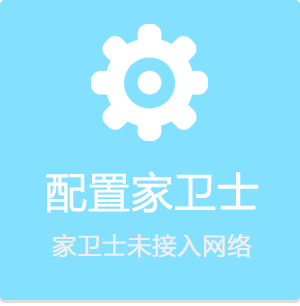
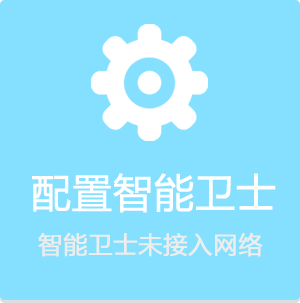
ff

diff --git a/securityguards/disclaimer.html b/securityguards/disclaimer.html
@@ -32,8 +32,8 @@
     </head>
     <body>
         <div class="content">
-             <div class="title">365家卫士 -- 免责声明</div>
-             1. 本软件为“365家卫士”智能净化器配套软件，免费提供给购买 “365家卫士”智能净化器用户使用，用户须接受本公司的技术支持，否则本公司不会对安装用户提供任何技术支持。用户安装本软件，即表明用户信任软件作者，自愿选择安装本软件，并接受本协议所有条款。如果用户不接受本协议条款，请立即卸载本软件。
+             <div class="title">365智能卫士 -- 免责声明</div>
+             1. 本软件为“365智能卫士”智能净化器配套软件，免费提供给购买 “365智能卫士”智能净化器用户使用，用户须接受本公司的技术支持，否则本公司不会对安装用户提供任何技术支持。用户安装本软件，即表明用户信任软件作者，自愿选择安装本软件，并接受本协议所有条款。如果用户不接受本协议条款，请立即卸载本软件。
              <br/><br/>
              2. 本公司所出品软件仅为用户提供简单便捷的生活方式，严禁利用本软件侵犯他人隐私权。如软件使用者不能遵守此规定，请马上停止安装或立即卸载本软件，所产生不良后果由用户自行承担。
              <br/><br/>
@@ -45,7 +45,7 @@
              <br/><br/>
              6. 鉴于用户操控设备软硬件环境的差异性和复杂性，本软件所提供的各项功能并不能保证在任何情况下都能正常执行或达到用户所期望的结果。用户使用本软件所产生的一切后果，本公司不承担任何责任。
              <br/><br/>
-             7. 本公司尊重并保护所有使用“365家卫士”品牌智能净化器用户的个人隐私权,未经用户亲自许可，或根据相关法律、法规的强制性规定，本公司不会主动向第三方披露。本服务条款的解释权与修改权归本公司所有。
+             7. 本公司尊重并保护所有使用“365智能卫士”品牌智能净化器用户的个人隐私权,未经用户亲自许可，或根据相关法律、法规的强制性规定，本公司不会主动向第三方披露。本服务条款的解释权与修改权归本公司所有。
              <br/><br/>
              8. 本应用所使用的语音技术由科大讯飞提供。
              <br /><br />

diff --git a/securityguards/contact_us.html b/securityguards/contact_us.html
@@ -30,11 +30,11 @@
     </head>
     <body>
         <div class="content">
-            <p class="entry">软件名称:&nbsp;&nbsp;&nbsp;&nbsp;&nbsp;&nbsp;&nbsp;&nbsp;365家卫士智能空气净化器</p>
+            <p class="entry">软件名称:&nbsp;&nbsp;&nbsp;&nbsp;&nbsp;&nbsp;&nbsp;&nbsp;365智能卫士空气净化器</p>
             <p class="entry">软件版本:&nbsp;&nbsp;&nbsp;&nbsp;&nbsp;&nbsp;&nbsp;&nbsp;1.1</p>
             <p class="entry">微信号码:&nbsp;&nbsp;&nbsp;&nbsp;&nbsp;&nbsp;&nbsp;&nbsp;H365Smart(订阅), hentre(服务)</p>
             <p class="entry">客服电话:&nbsp;&nbsp;&nbsp;&nbsp;&nbsp;&nbsp;&nbsp;&nbsp;<a style="color:rgb(0, 202, 255)" href="telprompt://0731-84323687">0731-84323687</a></p>
-            <p class="entry">公司网址:&nbsp;&nbsp;&nbsp;&nbsp;&nbsp;&nbsp;&nbsp;&nbsp;<a style="color:rgb(0, 202, 255)" href="http://www.365jws.com">http://www.365smart.net</a></p>
+            <p class="entry">公司网址:&nbsp;&nbsp;&nbsp;&nbsp;&nbsp;&nbsp;&nbsp;&nbsp;<a style="color:rgb(0, 202, 255)" href="http://www.365jws.com">http://www.hentre.com</a></p>
             
             <div style="background-color:rgb(238,238,238); padding-left:10px; padding-right:10px; height:36px; margin-top:15px;" onclick="window.location = 'securityguards://';">
                 <p style="float:left; margin:0; padding:0; color:gray; font-size:15px; position:relative; top:8px;">阅读软件免责声明</p>

diff --git a/securityguards/UnitFinderViewController.m b/securityguards/UnitFinderViewController.m
@@ -31,7 +31,7 @@
     [self.view addSubview:lblLine1];
     
     UILabel *lblLine1Content = [[UILabel alloc] initWithFrame:CGRectMake(offsetXOfContentLabel, self.topbarView.frame.size.height + 13, 220, 100)];
-    lblLine1Content.text = @"请确保365家卫士已接通电源，并自检完成(每次接通电源30-60秒后将听到“滴滴滴”三声，表示家卫士自检已完成)";
+    lblLine1Content.text = @"请确保365智能卫士已接通电源，并自检完成(每次接通电源30-60秒后将听到“滴滴滴”三声，表示智能卫士自检已完成)";
     lblLine1Content.textColor = [UIColor darkGrayColor];
     lblLine1Content.backgroundColor = [UIColor clearColor];
     lblLine1Content.numberOfLines = 4;
@@ -43,7 +43,7 @@
     
     UILabel *lblLine2Content = [[UILabel alloc] initWithFrame:CGRectMake(offsetXOfContentLabel, lblLine1Content.frame.origin.y + lblLine1Content.frame.size.height, 220, 50)];
     lblLine2Content.numberOfLines = 2;
-    lblLine2Content.text = @"请确保手机与365家卫士已连接上同一家庭WIFI网络";
+    lblLine2Content.text = @"请确保手机与365智能卫士已连接上同一家庭WIFI网络";
     lblLine2Content.textColor = [UIColor darkGrayColor];
     lblLine2Content.backgroundColor = [UIColor clearColor];
     lblLine2Content.font = [UIFont systemFontOfSize:15.f];
@@ -55,7 +55,7 @@
     UILabel *lblLine3Content = [[UILabel alloc] initWithFrame:CGRectMake(offsetXOfContentLabel, lblLine2Content.frame.origin.y + lblLine2Content.frame.size.height, 220, 100)];
     lblLine3Content.lineBreakMode = NSLineBreakByWordWrapping;
     lblLine3Content.textColor = [UIColor darkGrayColor];
-    lblLine3Content.text  = @"请长按家卫士主机面板上“风速”键3秒,并在2分钟内点击“开始绑定”按钮,完成手机与家卫士的绑定操作";
+    lblLine3Content.text  = @"请长按智能卫士主机面板上“风速”键3秒,并在2分钟内点击“开始绑定”按钮,完成手机与智能卫士的绑定操作";
     lblLine3Content.backgroundColor = [UIColor clearColor];
     lblLine3Content.numberOfLines = 4;
     lblLine3Content.font = [UIFont systemFontOfSize:15.f];

diff --git a/securityguards/UnitSettingStep4ViewController.m b/securityguards/UnitSettingStep4ViewController.m
@@ -12,7 +12,7 @@
 #import "SMNetworkTool.h"
 #import "Shared.h"
 
-NSString * const DefaultFamilyGuardsHotSpotName = @"DIRECT-AW-MiniMax";
+NSString * const DefaultFamilyGuardsHotSpotName = @"365-Smart-Guard";
 
 @interface UnitSettingStep4ViewController () {
     UILabel *lblWIFIName;
@@ -26,7 +26,7 @@ NSString * const DefaultFamilyGuardsHotSpotName = @"DIRECT-AW-MiniMax";
 
 - (void)initUI{
     [super initUI];
-    self.topbarView.title = @"第四步:配置家卫士";
+    self.topbarView.title = @"第四步:配置智能卫士";
 
     CGFloat offsetXOfTipsLabel = 40;
     CGFloat offsetXOfContentLabel = 50;
@@ -39,7 +39,7 @@ NSString * const DefaultFamilyGuardsHotSpotName = @"DIRECT-AW-MiniMax";
     UILabel *lblLine2Content = [[UILabel alloc] initWithFrame:
             CGRectMake(offsetXOfContentLabel, self.topbarView.frame.size.height + 15, 235, 25)];
     lblLine2Content.lineBreakMode = NSLineBreakByWordWrapping;
-    lblLine2Content.text = @"家卫士即将接入的家庭网络名称为:";
+    lblLine2Content.text = @"智能卫士即将接入的家庭网络名称为:";
     lblLine2Content.textColor = [UIColor darkGrayColor];
     lblLine2Content.backgroundColor = [UIColor clearColor];
     lblLine2Content.font = [UIFont systemFontOfSize:15.f];
@@ -79,7 +79,7 @@ NSString * const DefaultFamilyGuardsHotSpotName = @"DIRECT-AW-MiniMax";
 
 - (void)btnSendSettingsPressed:(UIButton *)sender {
     if(![self detectionFamilyGuardsWifiExists]) {
-        [[XXAlertView currentAlertView] setMessage:@"请连接家卫士Wifi" forType:AlertViewTypeFailed];
+        [[XXAlertView currentAlertView] setMessage:@"请连接智能卫士Wifi" forType:AlertViewTypeFailed];
         [[XXAlertView currentAlertView] alertForLock:NO autoDismiss:YES];
         return;
     }

diff --git a/securityguards/UnitSettingStep5ViewController.m b/securityguards/UnitSettingStep5ViewController.m
@@ -23,7 +23,7 @@
 
 - (void)initUI{
     [super initUI];
-    self.topbarView.title = @"第五步:绑定家卫士";
+    self.topbarView.title = @"第五步:绑定智能卫士";
 
     CGFloat offsetXOfTipsLabel = 40;
     CGFloat offsetXOfContentLabel = 50;
@@ -32,7 +32,7 @@
     [self.view addSubview:lblLine1];
     UILabel *lblLine1Content = [[UILabel alloc] initWithFrame:
             CGRectMake(offsetXOfContentLabel, self.topbarView.frame.size.height + 10, 220, 50)];
-    lblLine1Content.text = @"已经完成家卫士配置(摄像头配置已完成,请拔掉网线连接)";
+    lblLine1Content.text = @"已经完成智能卫士配置(摄像头配置已完成,请拔掉网线连接)";
     lblLine1Content.textColor = [UIColor darkGrayColor];
     lblLine1Content.backgroundColor = [UIColor clearColor];
     lblLine1Content.font = [UIFont systemFontOfSize:15.f];
@@ -62,7 +62,7 @@
     UILabel *lblLine3Content = [[UILabel alloc] initWithFrame:CGRectMake(offsetXOfContentLabel, lblLine3.frame.origin.y - 3, 220, 50)];
     lblLine3Content.numberOfLines = 2;
     lblLine3Content.lineBreakMode = NSLineBreakByWordWrapping;
-    lblLine3Content.text = @"请在2分钟之内点击“开始绑定”完成家卫士与手机的绑定操作";
+    lblLine3Content.text = @"请在2分钟之内点击“开始绑定”完成智能卫士与手机的绑定操作";
     lblLine3Content.textColor = [UIColor darkGrayColor];
     lblLine3Content.backgroundColor = [UIColor clearColor];
     lblLine3Content.font = [UIFont systemFontOfSize:15.f];

diff --git a/securityguards/UnitSettingStep2ViewController.m b/securityguards/UnitSettingStep2ViewController.m
@@ -28,7 +28,7 @@
     [self.view addSubview:lblLine1];
 
     UILabel *lblLine1Content = [[UILabel alloc] initWithFrame:CGRectMake(offsetXOfContentLabel, self.topbarView.frame.size.height + 11, 220, 25)];
-    lblLine1Content.text = @"请接通家卫士电源";
+    lblLine1Content.text = @"请接通智能卫士电源";
     lblLine1Content.textColor = [UIColor darkGrayColor];
     lblLine1Content.backgroundColor = [UIColor clearColor];
     lblLine1Content.font = [UIFont systemFontOfSize:15.f];
@@ -43,7 +43,7 @@
     lblLine2Content.numberOfLines = 3;
     lblLine2Content.lineBreakMode = NSLineBreakByWordWrapping;
     lblLine2Content.backgroundColor = [UIColor clearColor];
-    NSMutableAttributedString * tttstring = [[NSMutableAttributedString alloc] initWithString:@"打开家卫士，30-60秒后将听到“滴滴滴”三声，表示家卫士自检已完成"];
+    NSMutableAttributedString * tttstring = [[NSMutableAttributedString alloc] initWithString:@"打开智能卫士，30-60秒后将听到“滴滴滴”三声，表示智能卫士自检已完成"];
     
     UIFont *italicFont = [UIFont italicSystemFontOfSize:15.f];
     CTFontRef italicCTFont = CTFontCreateWithName((CFStringRef)italicFont.fontName, italicFont.pointSize, NULL);

diff --git a/securityguards/PortalViewController.m b/securityguards/PortalViewController.m
@@ -272,7 +272,7 @@ typedef NS_ENUM(NSUInteger, NotificationViewType) {
     if(currentUnit != nil && currentUnit.score != nil) {
         content.description = [NSString stringWithFormat:@"当前我的家庭健康及安全指数为 %d 分, 已超过 %d%% 的家庭 ", currentUnit.score.score, currentUnit.score.rankings];
     } else {
-        content.description = @"我的健康安全防护专家，365家卫士家庭安全健康中心，享受科技生活！";
+        content.description = @"我的健康安全防护专家，365智能卫士家庭安全健康中心，享受科技生活！";
     }
     
     content.title = [NSString stringWithFormat:@"%@%@", content.title, content.description];
@@ -593,7 +593,7 @@ typedef NS_ENUM(NSUInteger, NotificationViewType) {
 #endif
                 return;
             } else {
-                displayMessage = @"365家卫士设备正处于离线状态";
+                displayMessage = @"365智能卫士设备正处于离线状态";
             }
         }
     } else { // 无外网

diff --git a/securityguards/UnitSettingStep3ViewController.m b/securityguards/UnitSettingStep3ViewController.m
@@ -19,7 +19,7 @@
 
 - (void)initUI{
     [super initUI];
-    self.topbarView.title = @"第三步:连接家卫士";
+    self.topbarView.title = @"第三步:连接智能卫士";
 
     CGFloat offsetXOfTipsLabel = 40;
     CGFloat offsetXOfContentLabel = 50;
@@ -78,7 +78,7 @@
             return;
         }
     }
-    [[XXAlertView currentAlertView] setMessage:@"请连接家卫士热点" forType:AlertViewTypeFailed];
+    [[XXAlertView currentAlertView] setMessage:@"请连接智能卫士热点" forType:AlertViewTypeFailed];
     [[XXAlertView currentAlertView] alertForLock:NO autoDismiss:YES];
 }
 

diff --git a/securityguards/UnitSettingStep1ViewController.m b/securityguards/UnitSettingStep1ViewController.m
@@ -68,7 +68,7 @@
     lblLine4Content.numberOfLines = 3;
     lblLine4Content.lineBreakMode = NSLineBreakByWordWrapping;
     lblLine4Content.textColor = [UIColor darkGrayColor];
-    lblLine4Content.text  = @"请确保手机、摄像头以及即将接入网络的家卫士都在使用同一网络";
+    lblLine4Content.text  = @"请确保手机、摄像头以及即将接入网络的智能卫士都在使用同一网络";
     lblLine4Content.backgroundColor = [UIColor clearColor];
     lblLine4Content.font = [UIFont systemFontOfSize:15.f];
     [self.view addSubview:lblLine4Content];

diff --git a/securityguards/AccountService.m b/securityguards/AccountService.m
@@ -9,8 +9,7 @@
 #import "AccountService.h"
 #import "XXStringUtils.h"
 
-#define AUTH_URL @"http://hentre.f3322.org:6868/FrontServer-1.0/auth"
-//#define AUTH_URL @"http://172.16.8.16:6868/FrontServer-1.0/auth"
+#define AUTH_URL @"http://www.hentre.com:6868/FrontServer-1.0/auth"
 
 static const NSString *MD5_KEY = @"FFFF";
 
